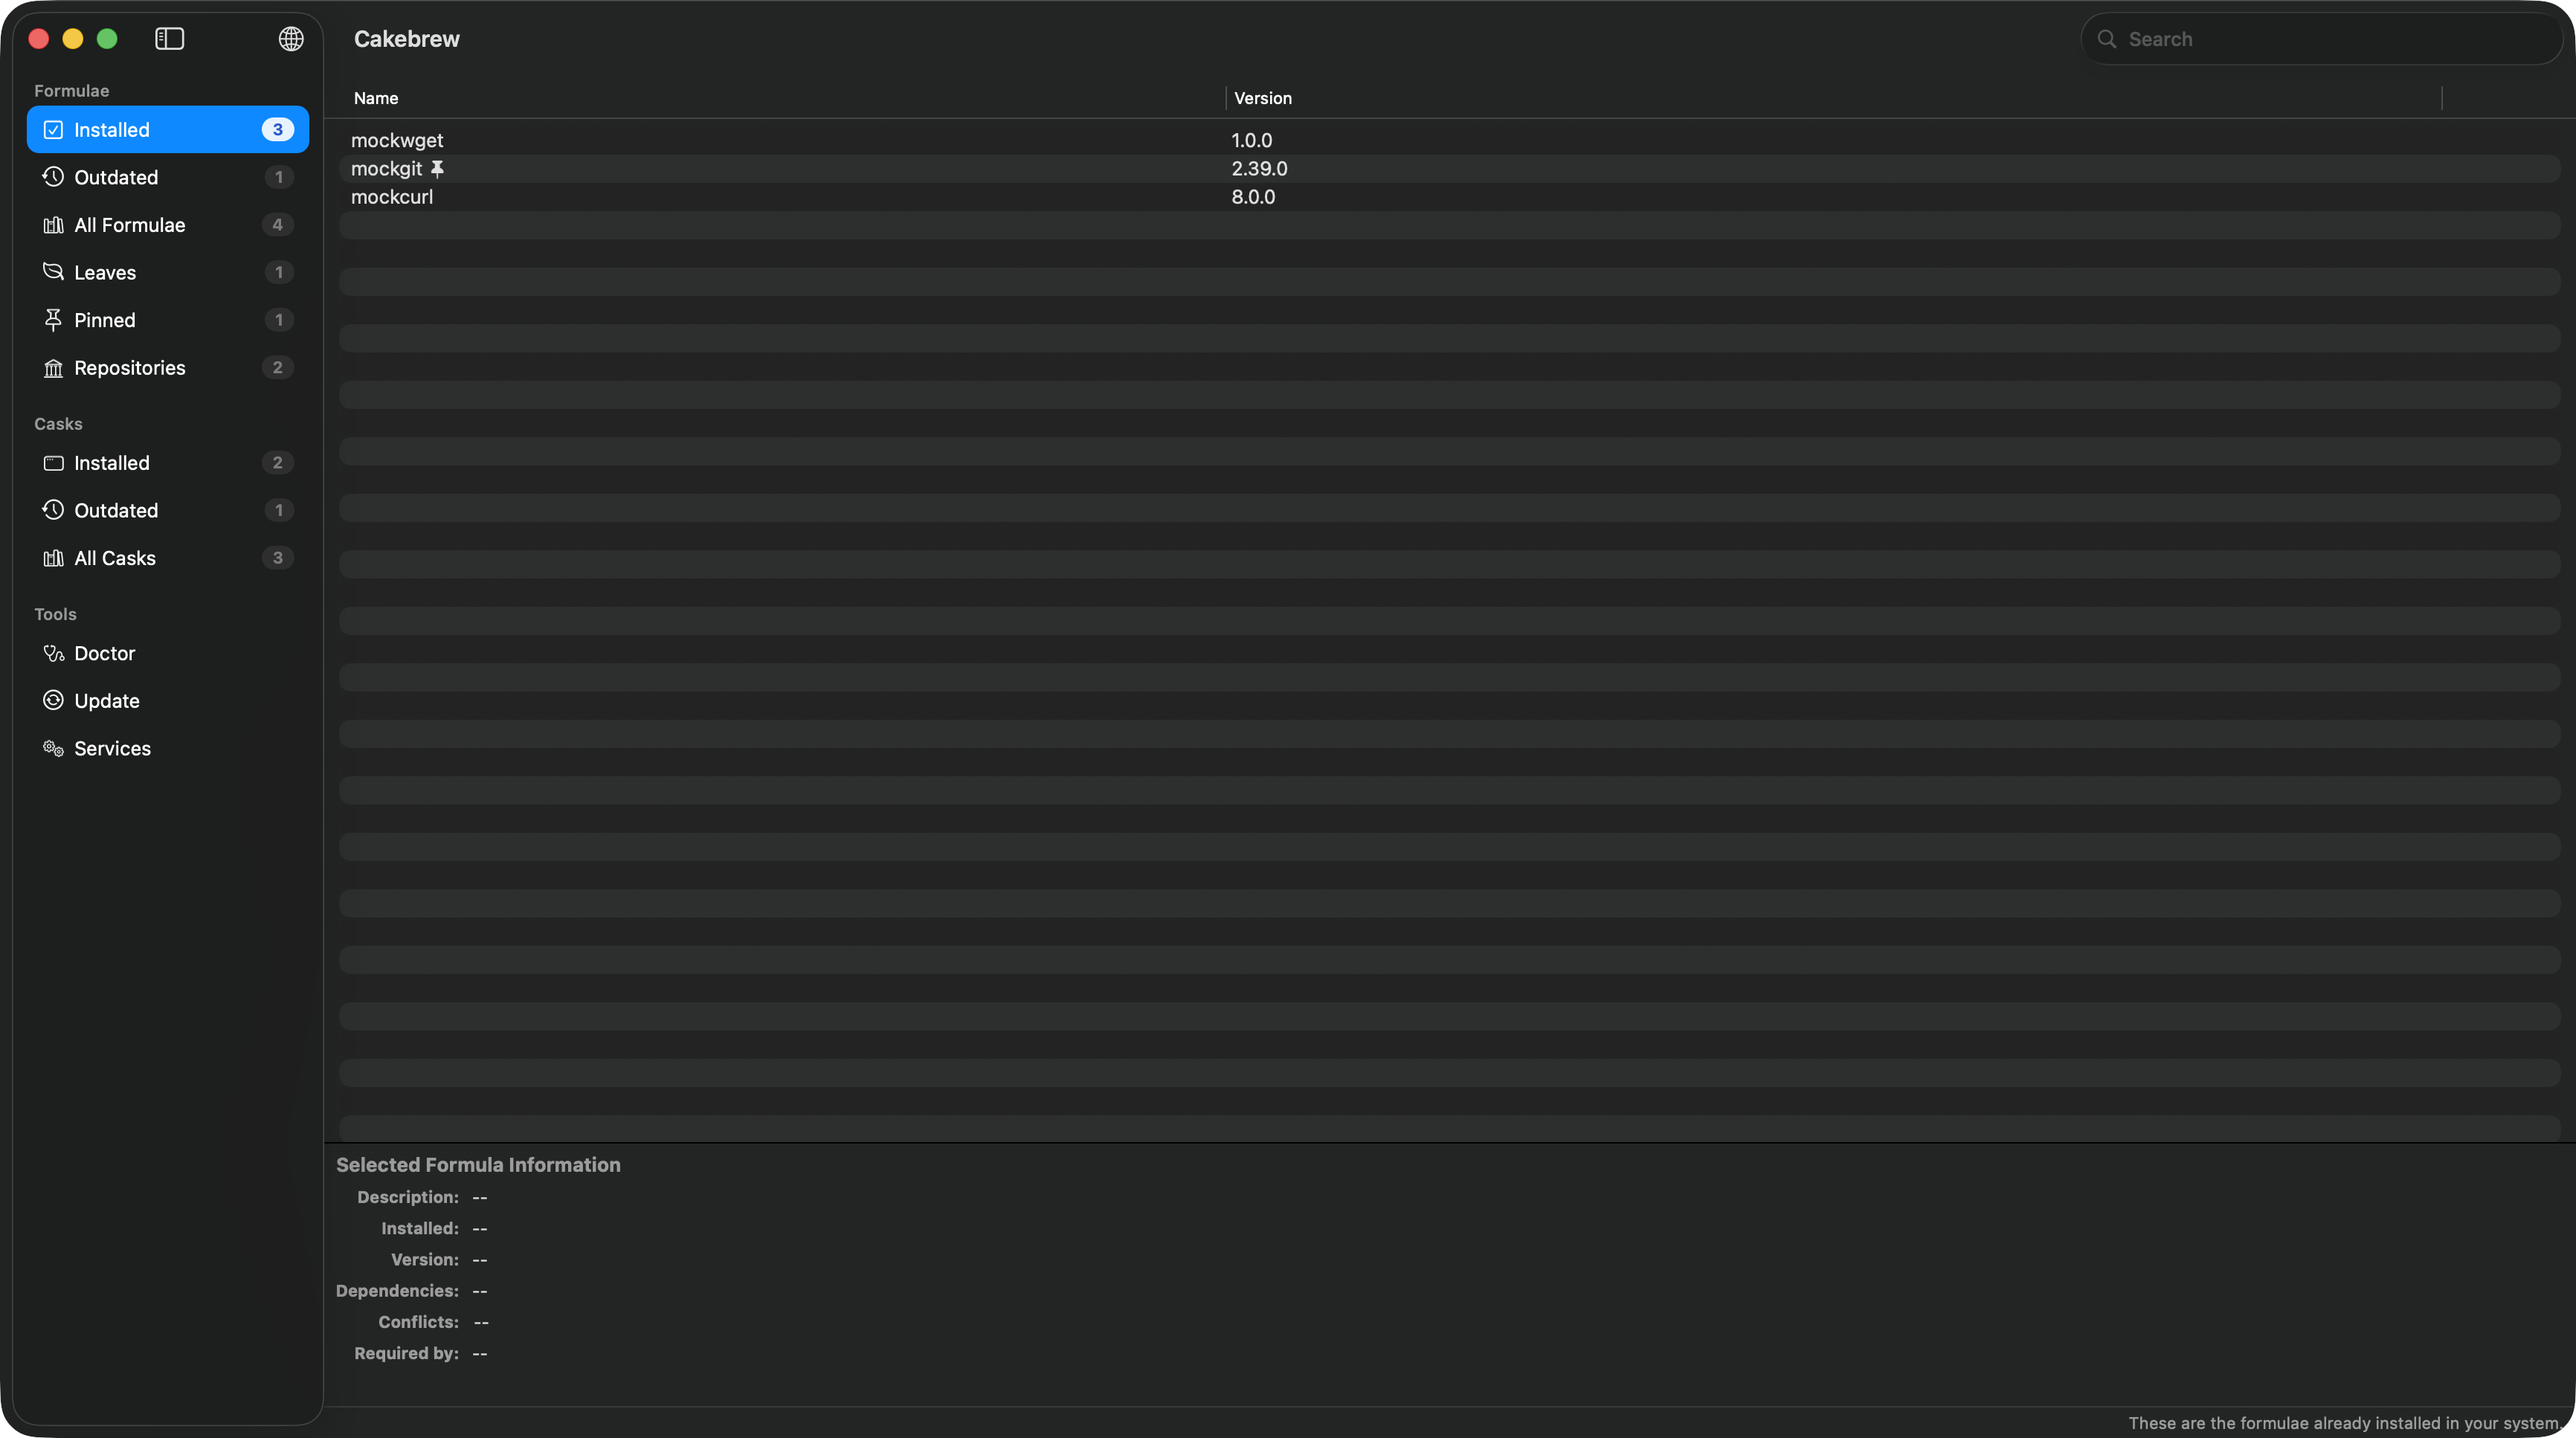
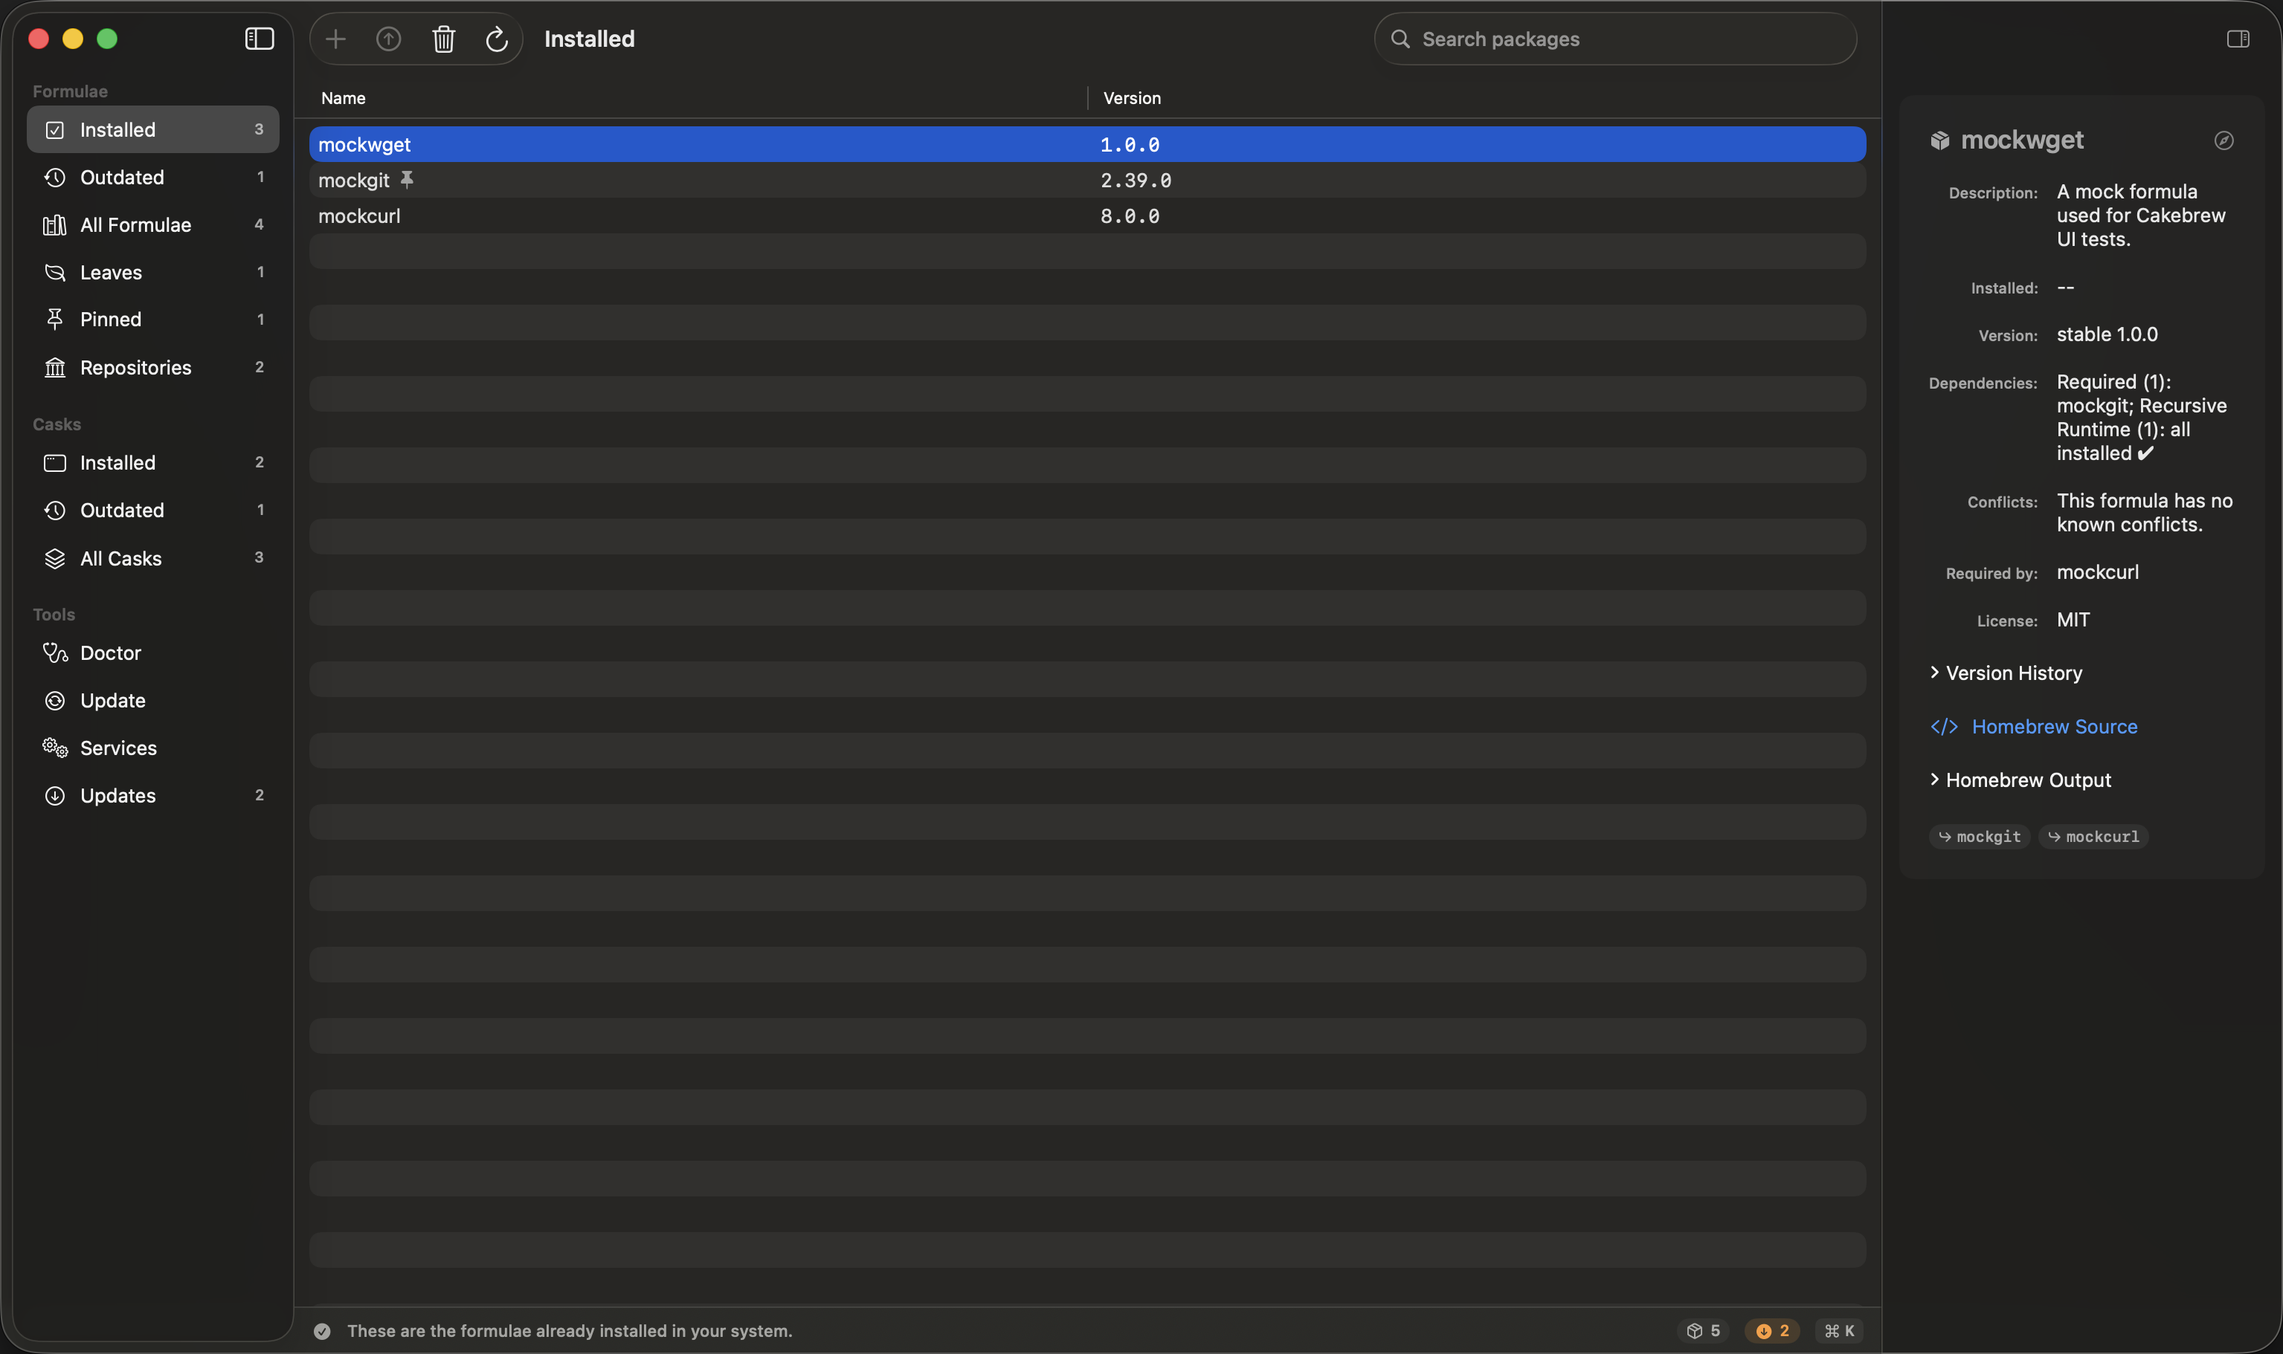
docs: refresh README and current app screenshots
Introduce Cakebrew with the new icon, a welcoming overview, current features,
and clear getting-started instructions. Document historical formula and cask
versions, original-package detection and selection, and returning to latest.

Update Xcode requirements and build/test commands, explain live-test fixture
requirements, remove the stale CI badge, and refresh light/dark screenshots
from the current SwiftUI app using mock Homebrew data.

Validation: local links, image references, shell-example syntax, and shared
scheme references checked; the light/dark screenshot journey passed.

diff --git a/README.md b/README.md
@@ -1,71 +1,90 @@
-# Cakebrew
+<p align="center">
+  <img src="docs/icon-design/cakebrew-default.png" width="128" height="128" alt="Cakebrew’s cake-shaped brew mug, topped with chocolate and a cherry">
+</p>
 
-A native macOS app for [Homebrew](https://brew.sh).
+<h1 align="center">Cakebrew</h1>
 
-[![CI](https://github.com/scottdensmore/Cakebrew/actions/workflows/ci.yml/badge.svg)](https://github.com/scottdensmore/Cakebrew/actions/workflows/ci.yml)
+<p align="center"><strong>A friendly Mac home for Homebrew.</strong></p>
 
-Cakebrew gives Homebrew a Mac interface: browse what is installed, see what is
-out of date, install and remove packages, and manage the services brew runs in
-the background — without remembering a command for each of them.
+Find your next favorite tool, keep your packages current, and see what’s installed
+on your Mac. Cakebrew brings [Homebrew](https://brew.sh) into a native SwiftUI
+interface, with searchable package lists, a detailed inspector, and familiar
+Mac controls.
+
+It works with the Homebrew installation you already have, so your packages stay
+part of your usual Homebrew setup.
 
 | Light | Dark |
-|---|---|
-| ![Cakebrew in light mode](docs/screenshots/main-window-light.png) | ![Cakebrew in dark mode](docs/screenshots/main-window-dark.png) |
+| --- | --- |
+| ![Cakebrew’s package list and inspector in light appearance](docs/screenshots/main-window-light.png) | ![Cakebrew’s package list and inspector in dark appearance](docs/screenshots/main-window-dark.png) |
 
-## What it does
+*Screenshots use demo packages from Cakebrew’s mock Homebrew interface.*
 
-**Formulae**
-* Browse installed, outdated, leaves, pinned and the full catalog
-* Install, uninstall and upgrade, individually or everything at once, with live-filtered formula build options
-* Pin a formula to hold it at its installed version, with a badge in the list
-* Read a formula's description, version, dependencies, conflicts and dependents
+## Meet your packages
 
-**Casks**
-* Browse installed, outdated and all available casks
-* Install, uninstall and upgrade, optionally running a cask's `zap` stanza to
-  remove its preferences and support files too
+- **Browse and discover.** Search formulae and casks, explore the catalog, or focus
+  on installed, outdated, pinned, and leaf formulae. Manage your taps from Repositories.
+- **Install and update.** Install, remove, and upgrade packages, with formula build
+  options when available. Review outdated formulae and casks together in Updates,
+  then upgrade selected packages or all eligible packages. Pinned packages are excluded.
+- **See the details.** Select a package to read its description, versions,
+  dependencies, dependents, license, and Homebrew output in the inspector. Follow
+  its homepage, copy an install path, or reveal it in Finder.
+- **Choose your version.** Browse release history, expand a version to inspect its
+  recipe and metadata, and install and pin an older formula or cask.
+- **Keep services in view.** Check the status of Homebrew services, start, stop, or
+  restart them, and copy their service and log paths.
+- **Take care of your setup.** Update Homebrew, run Doctor, preview cleanup, or
+  review unused dependencies before removing them. Follow live operation output.
+- **Bring your setup along.** Import or export a Brewfile to describe the packages
+  you want on another Mac.
 
-**Tools**
-* Updates — unified view of outdated formulae and casks with live filtering,
-  selective upgrades, and exact-snapshot batch upgrades that respect pinned exclusions
-* Services — start, stop and restart the background services brew manages, with
-  live status filter pills, inline search, and one-click service plist & log path copy
-* Doctor — run `brew doctor` with live diagnostic summary badges, line filtering, and one-click output copy
-* Update — run `brew update` with live log filtering and output copy
-* Cleanup — preview and reclaim disk space (`brew cleanup`)
-* Remove Unused Dependencies — preview and remove unused dependency formulae (`brew autoremove`) with candidate count badges and log filtering
-* Import and export a Brewfile with interactive entry status filters, search, summary copy, and live import log filtering
+### Older versions, with a way back
 
-**Around the edges**
-* Built with Swift 6 and SwiftUI for macOS Tahoe
-* Quick Command Palette (`⌘K`) to jump to any sidebar section, run Homebrew tools,
-  or select any installed formula or cask from the keyboard
-* Interactive Package Inspector with one-click install path copy, Reveal in Finder,
-  More Information popover, homepage launch, and clickable dependency/dependent chips
-* Live SwiftUI Tahoe status bar with activity indicator, package count pills, and
-  one-click outdated updates badge
-* Optional Menu Bar Extra in Settings for instant access to outdated package counts,
-  Update Homebrew, Upgrade All Outdated, and Command Palette
-* Optional background checking, with a Dock badge and a notification when
-  something new goes out of date
-* In-app update discovery (`Cakebrew ▸ Check for Updates…`) with SHA-256 and
-  Ed25519 feed verification
-* Search across formulae and casks
-* Six localizations: English, German, French, Italian, Portuguese and
-  Simplified Chinese
+Need a previous release? Open **Version History** in the package inspector and
+expand a release to see its details before choosing **Install & Pin This Version…**.
+Historical formulae can remain alongside the current version; installing an older
+cask replaces the app.
 
-## Requirements
+When you’re ready to move forward, select the package in **Pinned** and choose
+**Return to Latest Release…** from the button above the list or the row’s context
+menu. Cakebrew detects the original tap and package when it can. If there are
+several possible matches, choose one from the **Original Package** dropdown.
+Manual entry is available when no candidates can be found.
 
-macOS 15 or later. Homebrew must already be installed — Cakebrew drives the
-`brew` you have, it does not bundle its own.
+History is available for supported public GitHub taps. Older recipes and downloads
+may no longer work on your Mac, and a cask’s own updater can bypass its Homebrew
+pin. See the [version-history guide](docs/version-history.md) for supported
+versions, installation behavior, and recovery details.
 
-Works with both Homebrew prefixes (`/usr/local` on Intel, `/opt/homebrew` on
-Apple silicon).
+## Make yourself at home
 
-## Installing & Building
+Optional background checks surface package updates with a Dock badge and
+notifications. Turn them on in **Settings**, or enable a menu bar item for quick
+access to updates and Homebrew tools. Cakebrew follows light and dark appearance
+and is localized in English, German, French, Italian, Portuguese, and Simplified Chinese.
 
-Cakebrew is built from source with Xcode (until a tagged binary release is
-published on [Releases](https://github.com/scottdensmore/Cakebrew/releases)):
+| Shortcut | Action |
+| --- | --- |
+| `⌘F` | Search packages |
+| `⌘K` | Open the Command Palette |
+| `⌘R` | Refresh package information |
+| `⌘U` | Update Homebrew |
+| `⌘,` | Open Settings |
+
+The Command Palette can take you to a sidebar section, select an installed
+package, or open a Homebrew tool. **Cakebrew ▸ Check for Updates…** checks for
+updates to Cakebrew itself.
+
+## Get started
+
+You’ll need **macOS 15 or later** and [Homebrew](https://brew.sh) installed.
+Cakebrew supports the standard Homebrew locations on Apple silicon
+(`/opt/homebrew`) and Intel (`/usr/local`).
+
+To build the current source, use **Xcode 26 or later**, including its command-line
+tools. The app uses Swift 6 with complete concurrency checking and a layered
+Icon Composer app icon.
 
 ```sh
 git clone https://github.com/scottdensmore/Cakebrew.git
@@ -73,43 +92,88 @@ cd Cakebrew
 open Cakebrew.xcworkspace
 ```
 
-In Xcode, select the **Cakebrew** scheme and choose **Product ▸ Run** (`⌘R`), or
-build from the command line and copy `Cakebrew.app` to `/Applications`:
+Select the **Cakebrew** scheme, choose **My Mac**, and run with `⌘R`.
+Published builds, when available, are listed on
+[Releases](https://github.com/scottdensmore/Cakebrew/releases).
+
+For a local command-line build without a development team:
 
 ```sh
-# Build a Release or Debug app bundle without requiring a signing certificate
-xcodebuild build -workspace Cakebrew.xcworkspace -scheme Cakebrew \
-  -configuration Release -destination 'platform=macOS' CODE_SIGNING_ALLOWED=NO
+xcodebuild -project Cakebrew.xcodeproj -scheme Cakebrew \
+  -configuration Debug -destination 'platform=macOS' \
+  -derivedDataPath build ONLY_ACTIVE_ARCH=YES \
+  CODE_SIGN_IDENTITY=- CODE_SIGNING_ALLOWED=YES \
+  CODE_SIGNING_REQUIRED=NO DEVELOPMENT_TEAM="" build
 
-# Unit tests — fast and hermetic
-xcodebuild test -project Cakebrew.xcodeproj -scheme Cakebrew \
-  -destination 'platform=macOS' -only-testing:CakebrewTests CODE_SIGNING_ALLOWED=NO
-
-# UI tests — journeys against a mock brew, no real Homebrew involved
-xcodebuild test -scheme CakebrewUITests -destination 'platform=macOS' \
-  CODE_SIGN_IDENTITY="-" CODE_SIGN_STYLE=Manual CODE_SIGNING_REQUIRED=NO \
-  CODE_SIGNING_ALLOWED=YES DEVELOPMENT_TEAM="" PROVISIONING_PROFILE_SPECIFIER=""
+open build/Build/Products/Debug/Cakebrew.app
 ```
 
-Launching with `-BPMockBrew` swaps in a fixture-backed interface, so you can
-drive the whole UI without touching a real Homebrew installation. That build is
-Debug-only.
+Once Cakebrew opens, start with **Installed** to explore your setup, or press `⌘F`
+to find a package. Select a row to open its details in the inspector.
 
-## Contributing
+## For contributors
 
-See [CONTRIBUTING.md](CONTRIBUTING.md) for details on contributing to Cakebrew.
+Bug reports, translations, accessibility improvements, and thoughtful feature
+ideas are welcome. Start with [CONTRIBUTING.md](CONTRIBUTING.md), or explore:
 
-## Security
+- [SwiftUI architecture and migration notes](docs/swiftui-migration.md)
+- [Version history and returning to the latest release](docs/version-history.md)
+- [The layered app icon and appearance previews](docs/icon-design/README.md)
 
-Cakebrew ships a privileged helper. Please report vulnerabilities privately
-rather than in a public issue — see [SECURITY.md](SECURITY.md).
+The interface uses SwiftUI scenes, navigation, tables, an inspector, Settings, and
+commands. There are no XIB, NIB, or storyboard resources. macOS integrations such
+as Finder, the clipboard, and notifications use the platform APIs.
 
-## Credits
+### Try the demo interface
 
-Cakebrew was created by [Bruno Philipe](https://github.com/brunophilipe), based
-on a project by [vincentsaluzzo](https://github.com/vincentsaluzzo/Homebrew-GUI)
-whose commits are still in the working tree. This repository is a fork
-maintained by [Scott Densmore](https://github.com/scottdensmore).
+Debug builds include a mock Homebrew interface for exploring the UI without
+changing your Homebrew installation:
 
-Distributed under the GNU General Public License version 3. See
-[LICENSE](LICENSE).
+```sh
+open -n build/Build/Products/Debug/Cakebrew.app --args -BPMockBrew
+```
+
+### Run the checks
+
+Run the unit suite with the dedicated **CakebrewTests** scheme:
+
+```sh
+xcodebuild -project Cakebrew.xcodeproj -scheme CakebrewTests \
+  -destination 'platform=macOS' CODE_SIGNING_ALLOWED=NO test
+```
+
+UI tests use mock Homebrew data and require a logged-in macOS session with
+UI-testing permission. The test runner needs a signature; ad-hoc signing works
+for local runs:
+
+```sh
+xcodebuild -project Cakebrew.xcodeproj -scheme CakebrewUITests \
+  -destination 'platform=macOS' ONLY_ACTIVE_ARCH=YES \
+  CODE_SIGN_IDENTITY=- CODE_SIGNING_ALLOWED=YES \
+  CODE_SIGNING_REQUIRED=NO DEVELOPMENT_TEAM="" test
+```
+
+Live Homebrew compatibility checks are opt-in and skipped by default. They read
+real Homebrew output without installing or removing packages. The fixtures expect
+`wget` to be installed and `cowsay` to be absent:
+
+```sh
+CAKEBREW_BREW_COMPAT=1 TEST_RUNNER_CAKEBREW_BREW_COMPAT=1 \
+HOMEBREW_NO_AUTO_UPDATE=1 TEST_RUNNER_HOMEBREW_NO_AUTO_UPDATE=1 \
+xcodebuild -project Cakebrew.xcodeproj -scheme CakebrewTests \
+  -destination 'platform=macOS' \
+  -only-testing:CakebrewTests/BPBrewCompatibilityTests \
+  CODE_SIGNING_ALLOWED=NO test
+```
+
+Please report security vulnerabilities privately through
+[SECURITY.md](SECURITY.md).
+
+## Thanks and license
+
+Cakebrew was created by [Bruno Philipe](https://github.com/brunophilipe), based on
+[vincentsaluzzo’s Homebrew-GUI](https://github.com/vincentsaluzzo/Homebrew-GUI),
+whose commits remain in the repository history. This fork is maintained by
+[Scott Densmore](https://github.com/scottdensmore).
+
+Distributed under the **GNU General Public License version 3**. See [LICENSE](LICENSE).
